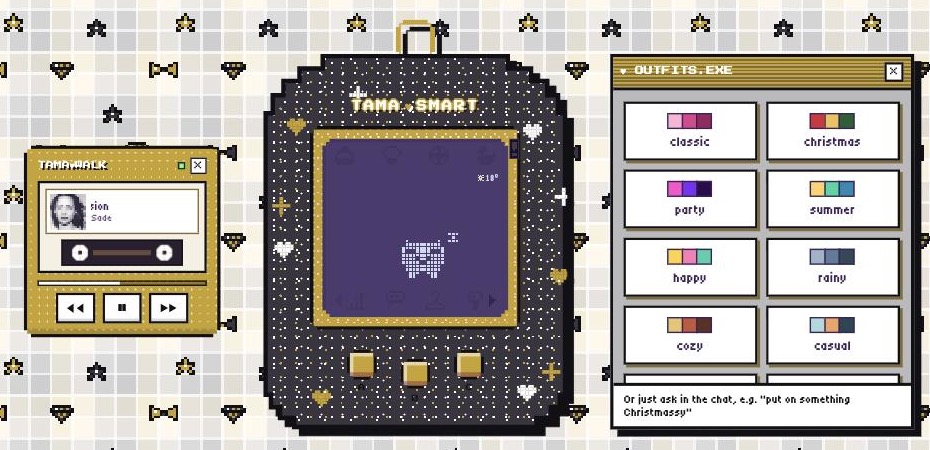
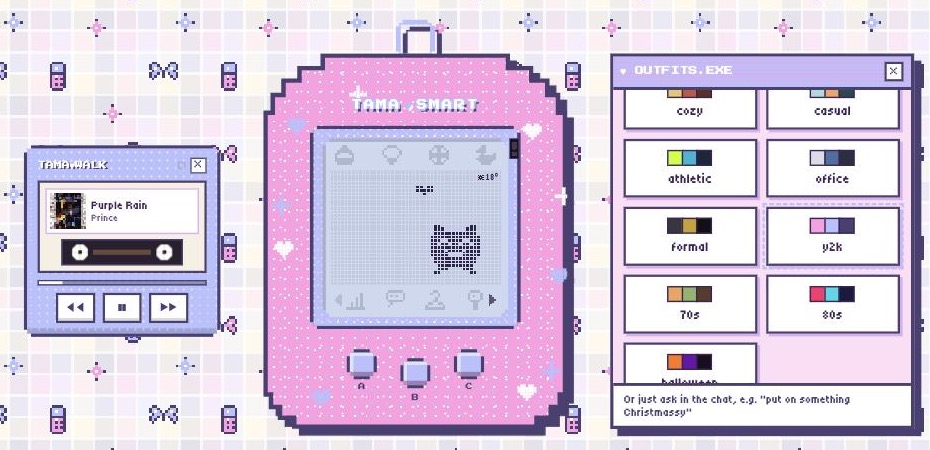
Refresh README screenshots: one outfit per feature, no personal names
- Hero in the classic look; chat (cozy), outfits (Y2K), weather (formal),
  Spotify (Halloween) and onboarding (Christmas), each with a caption
- Chat screenshots in English with a neutral greeting
- Drop the iBook inspiration image

diff --git a/README.md b/README.md
@@ -12,9 +12,9 @@ A pixel-perfect Tamagotchi that lives in your browser and doubles as an AI besti
 ![Docker](https://img.shields.io/badge/Docker-Compose-2496ED?style=for-the-badge&logo=docker&logoColor=white)
 ![Tailscale](https://img.shields.io/badge/Tailscale-HTTPS-242424?style=for-the-badge&logo=tailscale&logoColor=white)
 
-<img src="docs/images/app-formal-walkman.png" alt="TAMA SMART in the formal outfit, with the TAMA-WALK walkman playing music from Spotify" width="900">
+<img src="docs/images/hero-classic.jpg" alt="TAMA SMART in its classic pink outfit, next to the TAMA-WALK walkman playing Spotify" width="760">
 
-<sub><i>The app wearing the <b>formal</b> outfit: the TAMA SMART device (with the current temperature in the corner of its LCD) next to the <b>TAMA♥WALK</b> walkman showing what's playing on Spotify.</i></sub>
+<sub><i>TAMA SMART in its <b>classic</b> pink outfit: the glittery device (current temperature in the corner of the LCD, attention LED on the frame) next to the <b>TAMA♥WALK</b> walkman showing what's playing on Spotify.</i></sub>
 
 </div>
 
@@ -60,9 +60,9 @@ Everything runs in a **Docker** container on a Mac and is reachable from the pho
 - **Personalities:** sassy bestie, sweet & calm, hype coach, or witty & dry. Picked during onboarding, it changes how the pet talks.
 
 <div align="center">
-<img src="docs/images/chat-weather-aware.jpg" alt="The chat answering 'what should I wear today?' using the weather, the calendar and the closet" width="760">
+<img src="docs/images/chat-makeup-cozy.jpg" alt="The chat recommending makeup from the user's own makeup bag for a casual night out" width="760">
 
-<sub><i><b>CHAT.EXE</b> in the classic pink look: asked "what should I wear today?", the pet checks the weather (cloudy, cold morning, warmer afternoon) and the calendar (a free day), then picks layers from the user's own closet.</i></sub>
+<sub><i><b>CHAT.EXE</b> in the <b>cozy</b> outfit: asked for a makeup recommendation for a casual night out, the pet picks a long-wear lip cream and a neutral eyeshadow from the user's own makeup bag. (The app chats in Greek; this screenshot shows an English reply.)</i></sub>
 </div>
 
 ### 👗 Outfits & themes (OUTFITS.EXE)
@@ -71,9 +71,9 @@ Everything runs in a **Docker** container on a Mac and is reachable from the pho
 - Every change plays a **transformation animation**: shake, shine sweep, sparkle burst and a jingle.
 
 <div align="center">
-<img src="docs/images/outfits-picker.jpg" alt="The OUTFITS.EXE window listing looks with their color swatches" width="760">
+<img src="docs/images/outfits-picker.jpg" alt="The OUTFITS.EXE window while the Tamagotchi wears the Y2K outfit" width="760">
 
-<sub><i><b>OUTFITS.EXE</b>: every look with its color palette. The list scrolls inside the window and is generated from the backend's preset registry, so new looks show up automatically.</i></sub>
+<sub><i><b>OUTFITS.EXE</b> while wearing <b>Y2K</b>: lilac and baby pink, a wallpaper of butterflies and flip phones, and a butterfly fluttering across the LCD. Each card shows a look's palette; the list scrolls inside the window and is generated from the backend's preset registry.</i></sub>
 </div>
 
 ### 🌦 Weather (WEATHER.EXE)
@@ -82,9 +82,9 @@ Everything runs in a **Docker** container on a Mac and is reachable from the pho
 - **"What should I wear?"** sends the selected day and city straight to the chat.
 
 <div align="center">
-<img src="docs/images/weather-window.jpg" alt="The WEATHER.EXE window with today's weather in Florina and a 7-day forecast" width="760">
+<img src="docs/images/weather-window.jpg" alt="The WEATHER.EXE window with today's weather and a 7-day forecast, in the formal outfit" width="760">
 
-<sub><i><b>WEATHER.EXE</b> for the home city (Florina, Greece): today in detail, the next days with pixel weather icons, and a button that asks the pet what to wear.</i></sub>
+<sub><i><b>WEATHER.EXE</b> in the <b>formal</b> outfit (black and gold, bow ties and diamonds): today in detail for the home city, the next days with pixel weather icons, and a button that asks the pet what to wear.</i></sub>
 </div>
 
 ### 🪞 Mirror mode (MIRROR.EXE)
@@ -97,6 +97,12 @@ Everything runs in a **Docker** container on a Mac and is reachable from the pho
 - A retro **walkman** next to the device shows what's playing: pixelated album art, a scrolling title, spinning cassette reels, a progress bar and ◀◀ ❚❚ ▶▶ controls. Close it with × and bring it back from the ♪ icon.
 - In the chat: "put on some music for my cozy outfit" → the pet turns the mood into search words, finds a playlist and plays it (Spotify Premium).
 
+<div align="center">
+<img src="docs/images/spotify-halloween.jpg" alt="The pet suggesting Halloween playlists from Spotify, with the walkman next to it" width="760">
+
+<sub><i>Spotify in the <b>Halloween</b> outfit (pumpkins and bats on the wallpaper): the pet searches Spotify and suggests playlists that match the costume, while the walkman shows the current track.</i></sub>
+</div>
+
 ### 📅 Calendar (CALENDAR.EXE)
 - A 7-day agenda from Google Calendar (titles, times and locations only). Pick an event and ask "what should I wear for it?".
 
@@ -104,9 +110,9 @@ Everything runs in a **Docker** container on a Mac and is reachable from the pho
 - On first use, a wizard explains the pet, how to keep it alive and what every icon does, then asks for the **pet's name**, **what to call you** and its **personality**. The gear icon reopens it at any time.
 
 <div align="center">
-<img src="docs/images/setup-wizard.jpg" alt="The SETUP.EXE onboarding wizard on the personality step" width="760">
+<img src="docs/images/setup-wizard.jpg" alt="The SETUP.EXE onboarding wizard on the personality step, in the Christmas outfit" width="760">
 
-<sub><i><b>SETUP.EXE</b> on the personality step, with the four personalities to choose from. The pixel dots at the bottom show the progress through the six steps.</i></sub>
+<sub><i><b>SETUP.EXE</b> in the <b>Christmas</b> outfit (garland and falling snow on the LCD): the personality step, with four personalities to choose from. The pixel dots show the progress through the six steps.</i></sub>
 </div>
 
 ### 📱 Works on the phone
@@ -291,17 +297,13 @@ The look started from a small moodboard. These images are **references only** an
 
 <table>
   <tr>
-    <td align="center" width="33%">
-      <img src="docs/images/inspiration-tamagotchi.png" alt="A pink Tamagotchi covered in hearts and stars" width="220"><br>
+    <td align="center" width="50%">
+      <img src="docs/images/inspiration-tamagotchi.png" alt="A pink Tamagotchi covered in hearts and stars" width="260"><br>
       <sub>The pink, glittery Tamagotchi shell with hearts and stars that inspired the device and its <b>TAMA♥SMART</b> branding.</sub>
     </td>
-    <td align="center" width="33%">
-      <img src="docs/images/inspiration-pixel-room.png" alt="Pastel pixel art with a plaid background, hearts and Tamagotchi eggs" width="220"><br>
+    <td align="center" width="50%">
+      <img src="docs/images/inspiration-pixel-room.png" alt="Pastel pixel art with a plaid background, hearts and Tamagotchi eggs" width="260"><br>
       <sub>Pastel pixel art with a plaid pattern, hearts and tiny Tamagotchi eggs: the source of the generated <b>pixel wallpaper</b>.</sub>
-    </td>
-    <td align="center" width="33%">
-      <img src="docs/images/inspiration-ibook.png" alt="A white and pink retro Apple iBook" width="220"><br>
-      <sub>A retro pink iBook, from an early idea of showing the app inside an old Mac screen (not implemented, but it set the <b>vintage-tech</b> mood).</sub>
     </td>
   </tr>
 </table>
